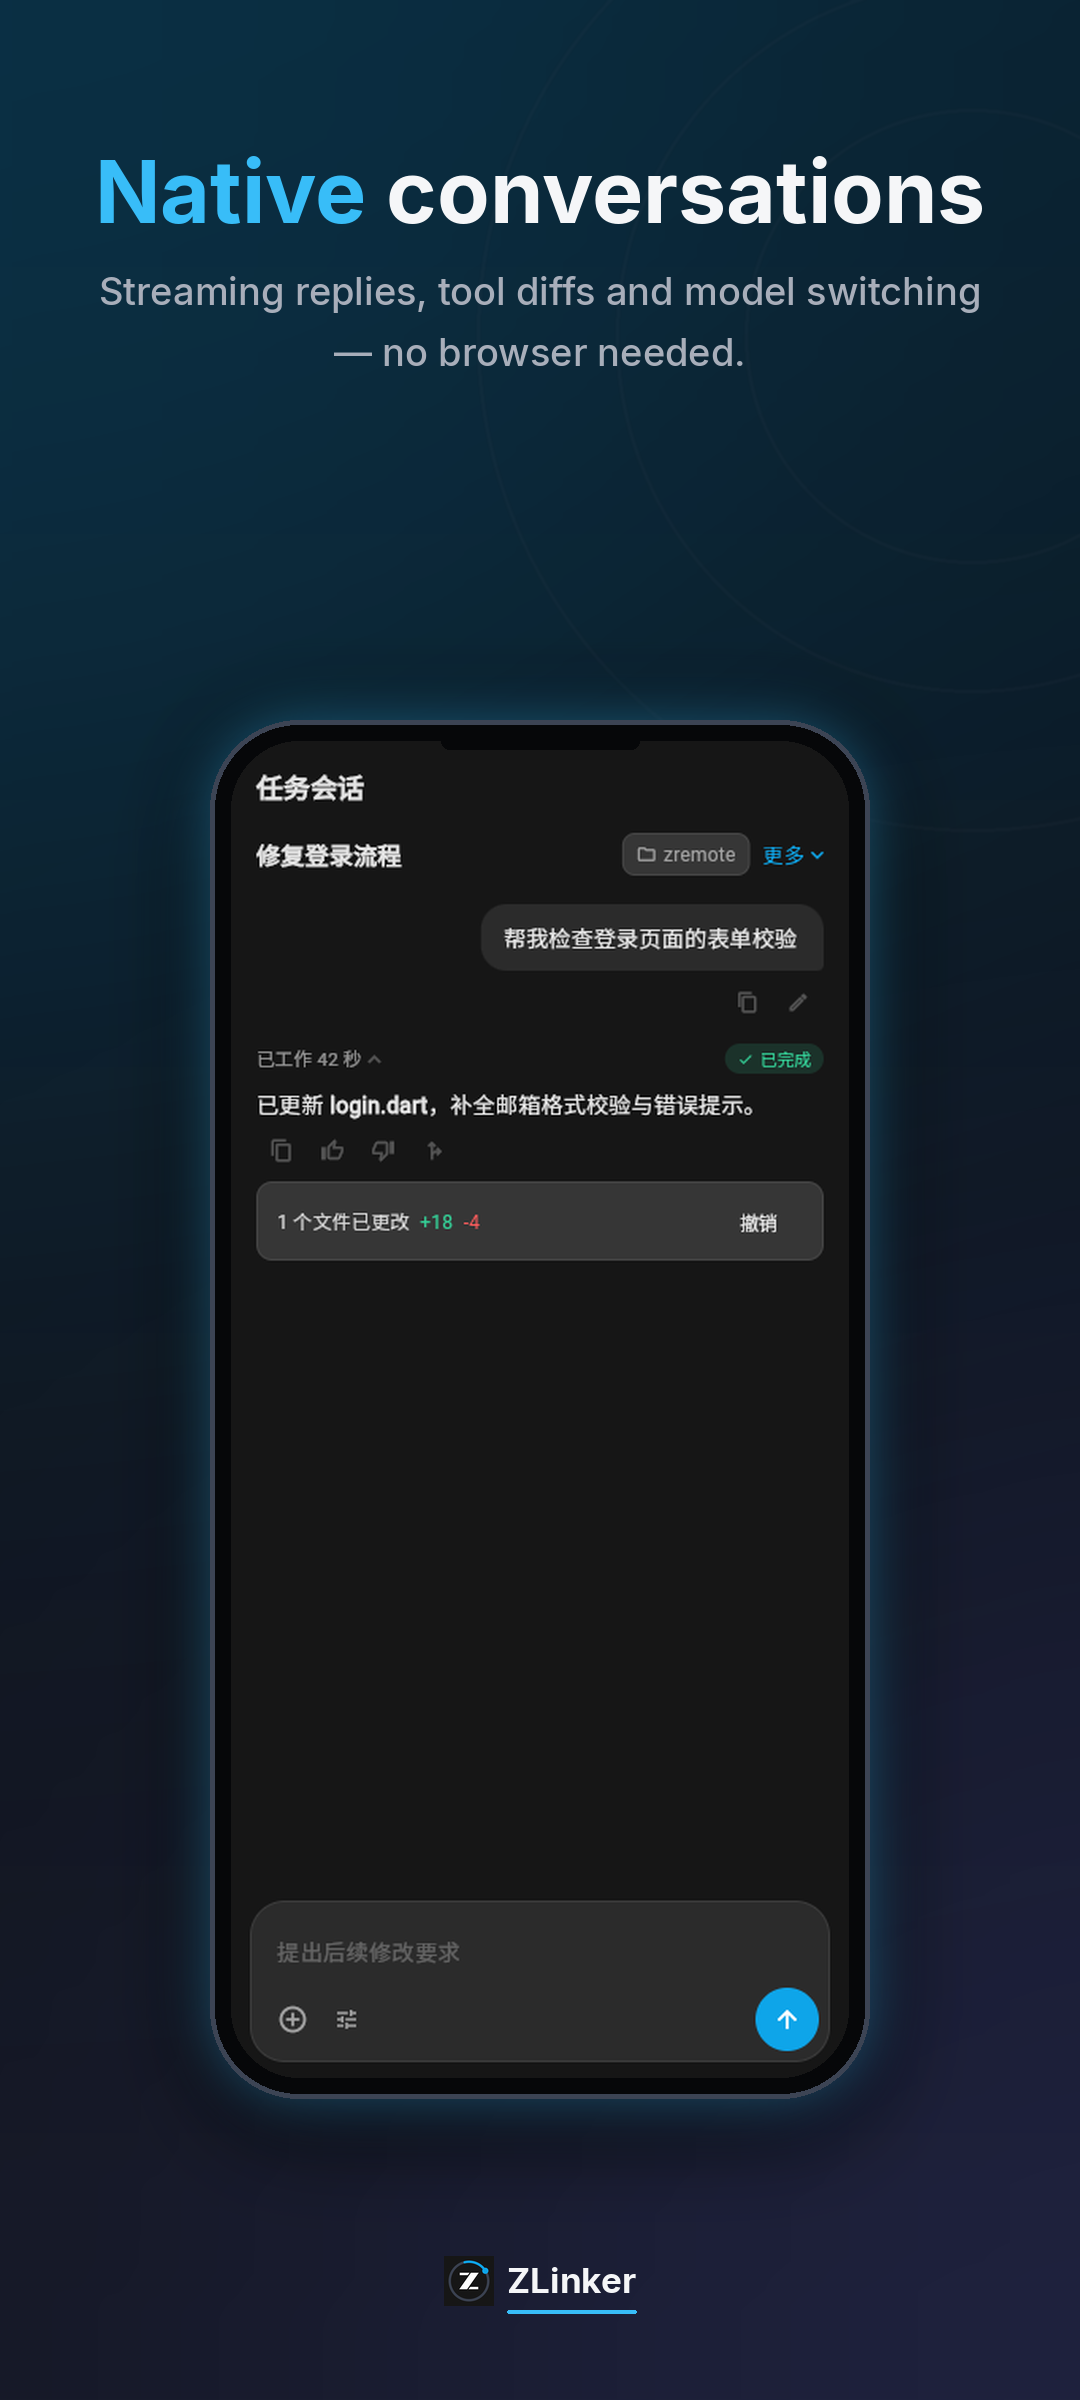
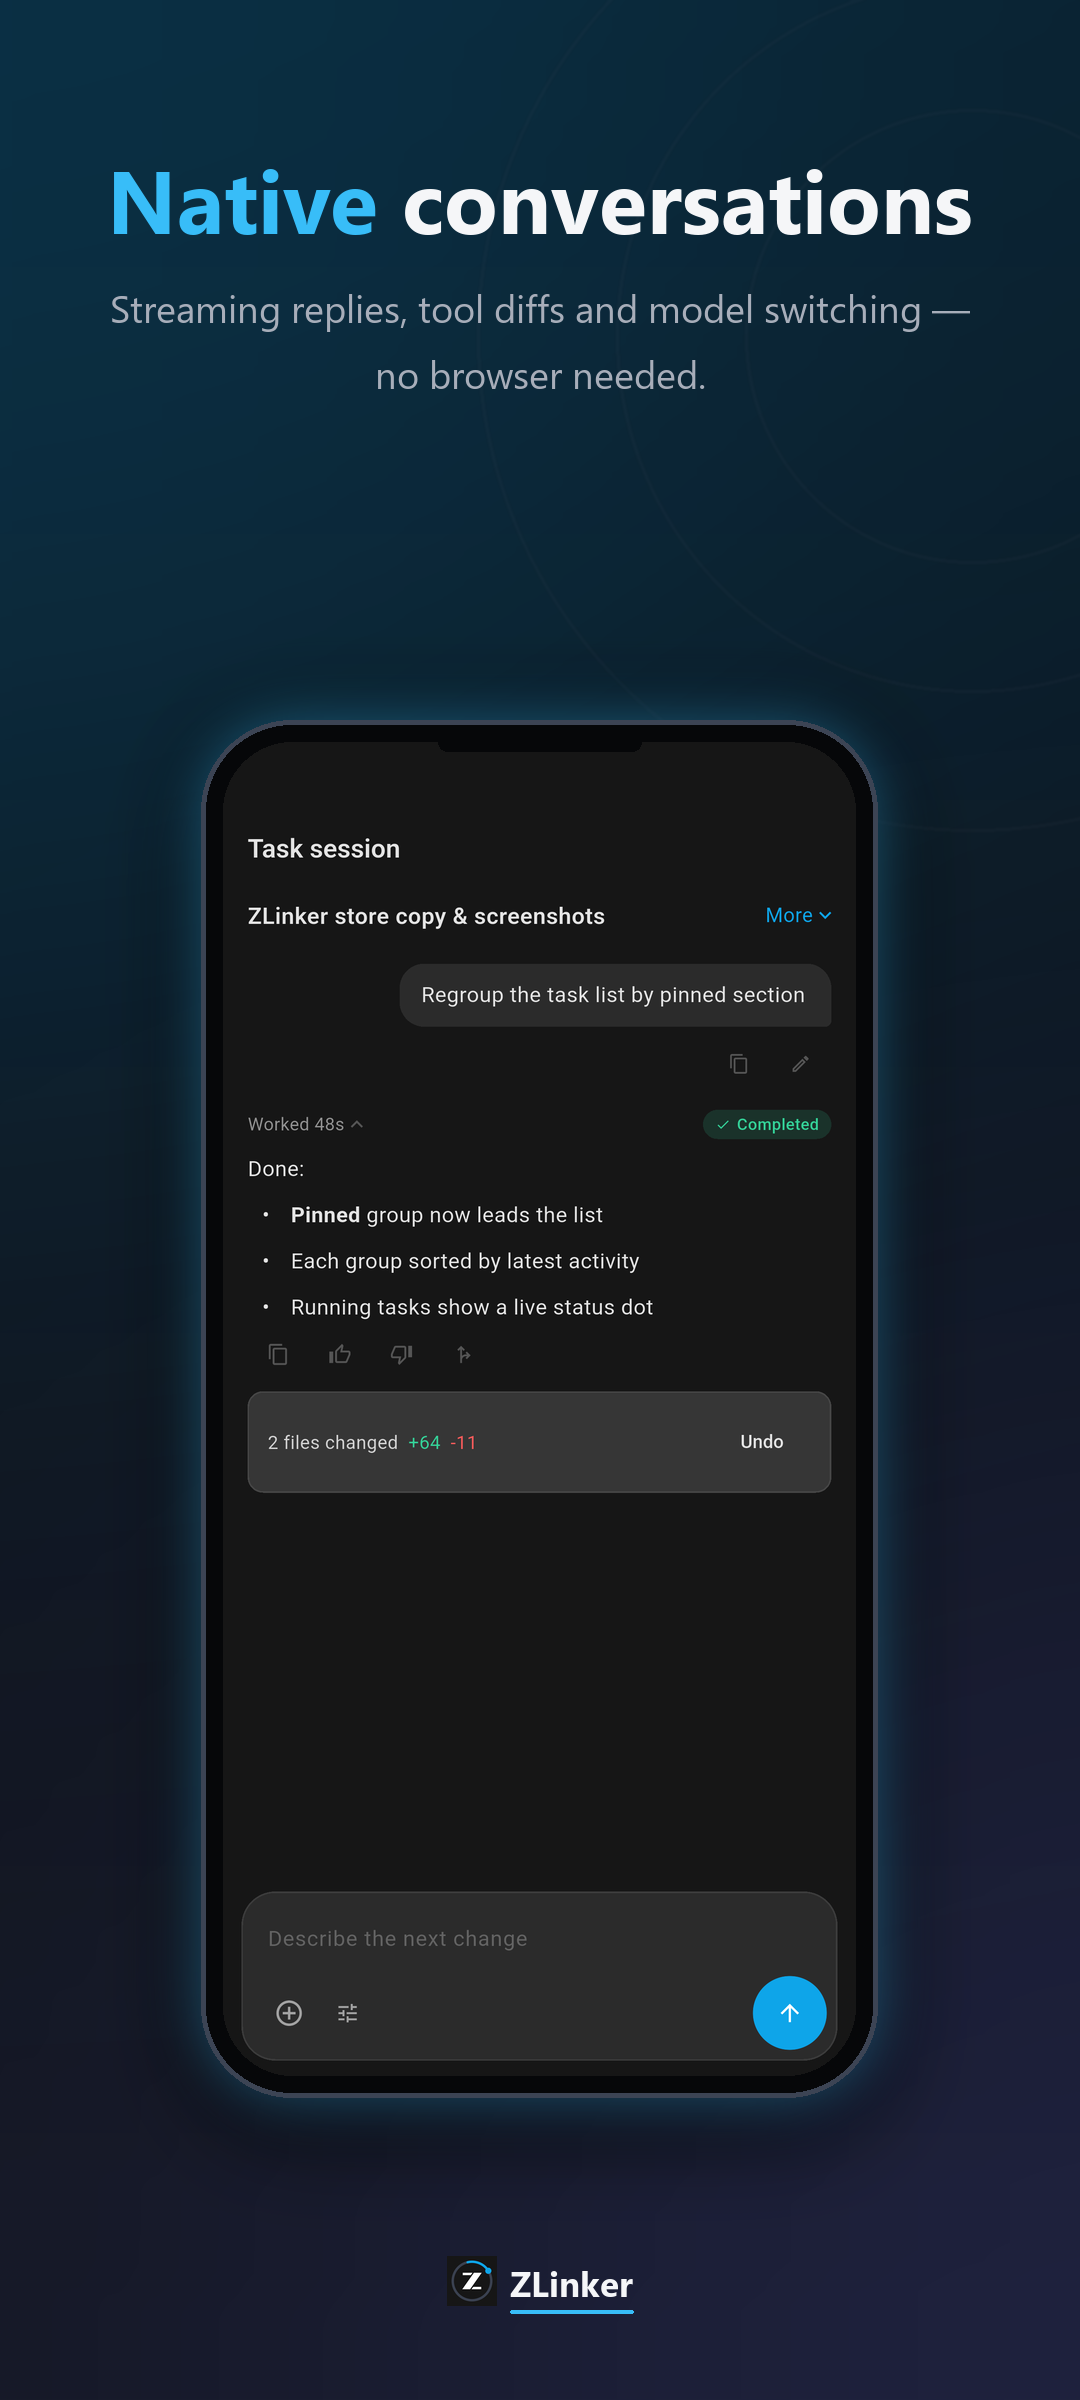
store: regenerate marketing assets from real bilingual captures
- gen_store_assets.py: per-locale screenshot inputs (zh captions pair with
  zh UI capture, en with en), Windows font fallback (Segoe UI + Microsoft
  YaHei), portrait sources now 1440x3036 / dual-pane 2752x1914 (was 390x844
  / 1280x900 web-demo stills from the zremote era)
- Refresh all 24 marketing images: iPhone 6.9" hero/tasks/conversation/features,
  iPad 13" dualpane, Play phone/tablet, feature graphics, icons

diff --git a/tool/gen_store_assets.py b/tool/gen_store_assets.py
@@ -21,6 +21,7 @@ from __future__ import annotations
 
 import math
 import os
+import platform
 from PIL import Image, ImageDraw, ImageFont, ImageFilter
 
 ROOT = os.path.dirname(os.path.dirname(os.path.abspath(__file__)))
@@ -28,6 +29,32 @@ OUT = os.path.join(ROOT, "docs", "store")
 SHOTS = os.path.join(ROOT, "docs", "screenshots")
 ICON_SRC = os.path.join(ROOT, "assets", "icon", "icon.png")
 APP = "ZLinker"
+
+# Fonts: Linux CI uses Inter + WenQuanYi; Windows uses Segoe UI + Microsoft YaHei.
+if platform.system() == "Windows":
+    FONT_DIR = "C:/Windows/Fonts"
+    CJK_FONT = "C:/Windows/Fonts/msyh.ttc"
+    _FONT_FILES = {
+        "bold": "segoeuib.ttf",
+        "semibold": "seguisb.ttf",
+        "medium": "segoeui.ttf",
+        "regular": "segoeui.ttf",
+    }
+else:
+    FONT_DIR = "/usr/share/fonts/truetype/macos"
+    CJK_FONT = "/usr/share/fonts/truetype/wqy/wqy-microhei.ttc"
+    _FONT_FILES = {
+        "bold": "Inter-Bold.ttf",
+        "semibold": "Inter-SemiBold.ttf",
+        "medium": "Inter-Medium.ttf",
+        "regular": "Inter-Regular.ttf",
+    }
+
+
+def font(weight: str, size: int, lang: str = "en") -> ImageFont.FreeTypeFont:
+    if lang == "zh":
+        return ImageFont.truetype(CJK_FONT, size)
+    return ImageFont.truetype(os.path.join(FONT_DIR, _FONT_FILES[weight]), size)
 
 # ── Brand tokens ────────────────────────────────────────────────────────
 BG_TOP = (9, 12, 18)           # deep navy-black
@@ -40,21 +67,6 @@ INDIGO = (99, 102, 241)        # indigo-500 (secondary glow)
 WHITE = (245, 246, 248)
 MUTED = (168, 174, 186)        # cool neutral
 DIM = (120, 126, 138)
-
-FONT_DIR = "/usr/share/fonts/truetype/macos"
-CJK_FONT = "/usr/share/fonts/truetype/wqy/wqy-microhei.ttc"
-
-
-def font(weight: str, size: int, lang: str = "en") -> ImageFont.FreeTypeFont:
-    if lang == "zh":
-        return ImageFont.truetype(CJK_FONT, size)
-    files = {
-        "bold": "Inter-Bold.ttf",
-        "semibold": "Inter-SemiBold.ttf",
-        "medium": "Inter-Medium.ttf",
-        "regular": "Inter-Regular.ttf",
-    }
-    return ImageFont.truetype(os.path.join(FONT_DIR, files[weight]), size)
 
 
 def is_zh(lang):
@@ -501,10 +513,10 @@ def ensure(path):
 def main():
     # Real app captures (integration_test/screenshots_test.dart, seeded data).
     # Portrait captures are 1440x3036, dual-pane 2752x1914 — much sharper
-    # than the old 390x844 web-demo sources.
-    s_tasks = os.path.join(SHOTS, "raw", "02-tasks-en.png")
-    s_chat = os.path.join(SHOTS, "raw", "03-chat-en.png")
-    s_dual = os.path.join(SHOTS, "raw", "04-dualpane-en.png")
+    # than the old 390x844 web-demo sources. Each locale gets its matching
+    # UI capture so the embedded screenshot text aligns with the caption.
+    def shot(name, lang):
+        return os.path.join(SHOTS, "raw", f"{name}-{lang}.png")
 
     load_icon(1024).convert("RGB").save(ensure(os.path.join(OUT, "appstore/icon/app-icon-1024.png")))
     load_icon(512).convert("RGB").save(ensure(os.path.join(OUT, "googleplay/icon/play-icon-512.png")))
@@ -515,24 +527,24 @@ def main():
     W, H = 1290, 2796
     for lang in ("en", "zh"):
         hero_slide(W, H, lang).save(ensure(os.path.join(OUT, f"appstore/screenshots/iphone-6.9/00-hero-{lang}.png")))
-        showcase_portrait(W, H, s_tasks, "tasks", lang).save(os.path.join(OUT, f"appstore/screenshots/iphone-6.9/01-tasks-{lang}.png"))
-        showcase_portrait(W, H, s_chat, "conversation", lang).save(os.path.join(OUT, f"appstore/screenshots/iphone-6.9/02-conversation-{lang}.png"))
+        showcase_portrait(W, H, shot("02-tasks", lang), "tasks", lang).save(os.path.join(OUT, f"appstore/screenshots/iphone-6.9/01-tasks-{lang}.png"))
+        showcase_portrait(W, H, shot("03-chat", lang), "conversation", lang).save(os.path.join(OUT, f"appstore/screenshots/iphone-6.9/02-conversation-{lang}.png"))
         features_slide(W, H, lang).save(os.path.join(OUT, f"appstore/screenshots/iphone-6.9/03-features-{lang}.png"))
 
     W, H = 2752, 2064
     for lang in ("en", "zh"):
-        showcase_landscape(W, H, s_dual, "dualpane", lang).save(ensure(os.path.join(OUT, f"appstore/screenshots/ipad-13/01-dualpane-{lang}.png")))
+        showcase_landscape(W, H, shot("04-dualpane", lang), "dualpane", lang).save(ensure(os.path.join(OUT, f"appstore/screenshots/ipad-13/01-dualpane-{lang}.png")))
 
     W, H = 1080, 2400
     for lang in ("en", "zh"):
         hero_slide(W, H, lang).save(ensure(os.path.join(OUT, f"googleplay/screenshots/phone/00-hero-{lang}.png")))
-        showcase_portrait(W, H, s_tasks, "tasks", lang).save(os.path.join(OUT, f"googleplay/screenshots/phone/01-tasks-{lang}.png"))
-        showcase_portrait(W, H, s_chat, "conversation", lang).save(os.path.join(OUT, f"googleplay/screenshots/phone/02-conversation-{lang}.png"))
+        showcase_portrait(W, H, shot("02-tasks", lang), "tasks", lang).save(os.path.join(OUT, f"googleplay/screenshots/phone/01-tasks-{lang}.png"))
+        showcase_portrait(W, H, shot("03-chat", lang), "conversation", lang).save(os.path.join(OUT, f"googleplay/screenshots/phone/02-conversation-{lang}.png"))
         features_slide(W, H, lang).save(os.path.join(OUT, f"googleplay/screenshots/phone/03-features-{lang}.png"))
 
     W, H = 1920, 1200
     for lang in ("en", "zh"):
-        showcase_landscape(W, H, s_dual, "dualpane", lang).save(ensure(os.path.join(OUT, f"googleplay/screenshots/tablet/01-dualpane-{lang}.png")))
+        showcase_landscape(W, H, shot("04-dualpane", lang), "dualpane", lang).save(ensure(os.path.join(OUT, f"googleplay/screenshots/tablet/01-dualpane-{lang}.png")))
 
     print("Store assets written to", OUT)
 
